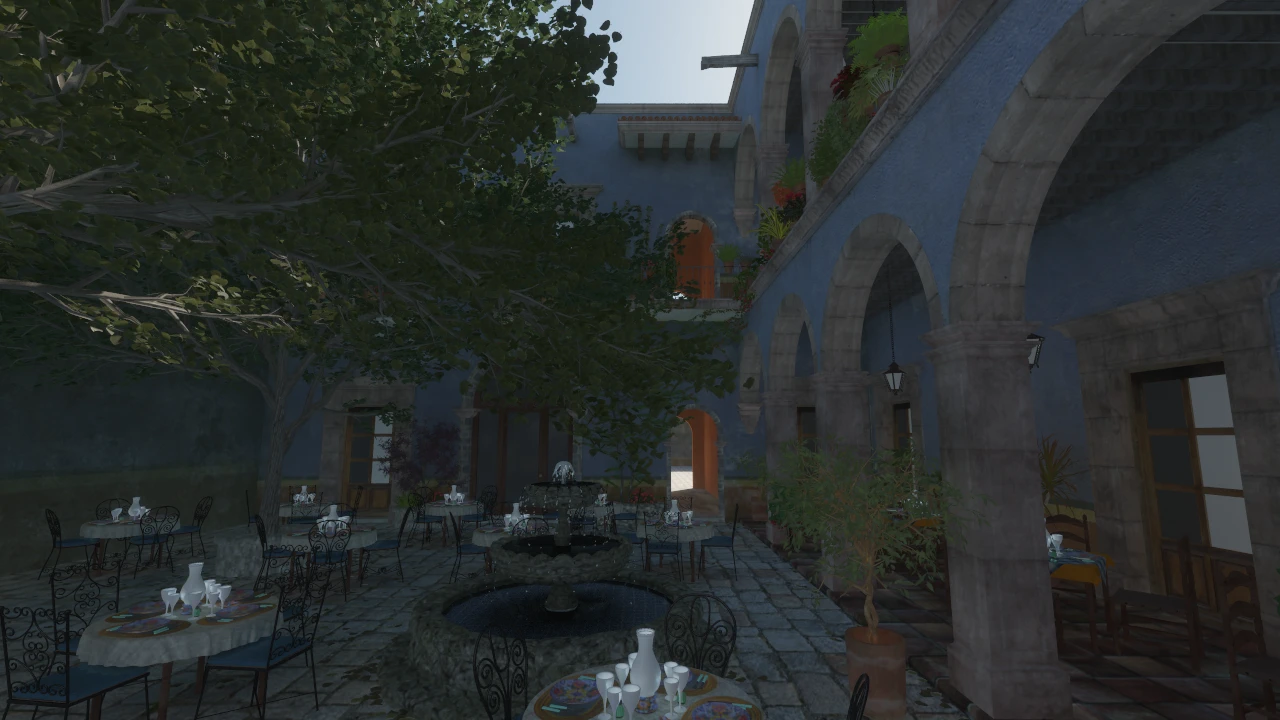
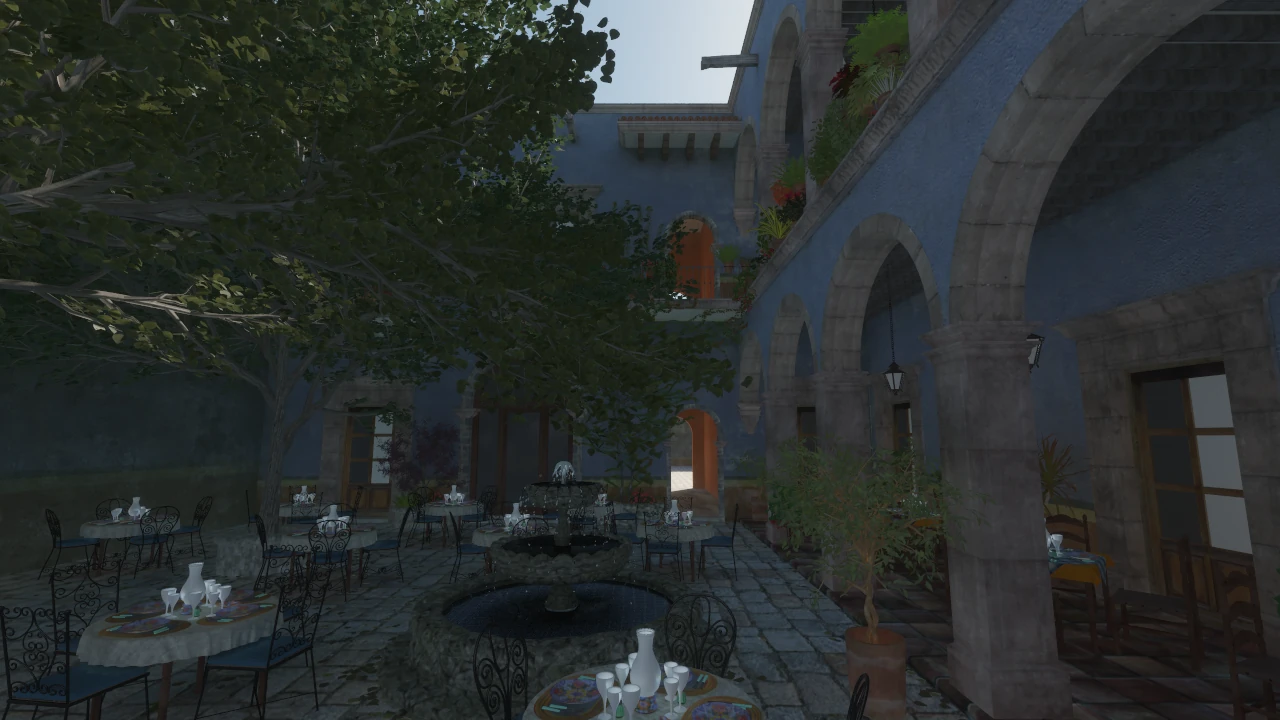
media: re-shoot the whole set on the foliage build, and a clip that can show it
Three commits landed since the media set was captured, and two of them are
look-affecting on the exact scenes it photographs. The foliage vocabulary in
matclass grew the plain-English and Minecraft rows, so Rungholt's canopy has
real leaf translucency now and the committed portrait still showed the flat
pre-foliage clumps; leaf sway displaces 5.1 M triangles per frame; and the
pavement guard restored Bistro's night cobble reflections. Everything except
ab/overlay.webp is re-shot from the current build — overlay is `--no-world`
procedural, which carries no foliage and no OBJ materials, so it is unmoved.

Nothing gates this. Every exact-zero counter, every A/B and check.png stayed
green the whole time the page was out of date; looks are gate-blind, and the
only instrument is looking. CLAUDE.md's cinematic touch-rule now says so.

NEW: a `foliage` preset, because the media set had no asset that could show
the feature at all. Leaf sway is a per-frame displacement of real geometry,
so a still shows one pose of it and reads as the rest pose. It reuses
`island_shots`' authored framing verbatim (the clip IS the islands still with
the clock running) and is LOCKED OFF, expressed as a one-key `Sequence`:
`pose_at` short-circuits at len 1 and returns key 0 with its pinned hour, so
no spline runs and the pose is bit-identical every frame while the sway,
cloud and firefly clocks advance underneath. A moving camera was rejected
[…]

diff --git a/src/cinematic.rs b/src/cinematic.rs
@@ -53,7 +53,7 @@ use crate::world::World;
 /// (`--no-clouds`, `--heightfield`, …) which is read once at load, so a pair is
 /// two runs of the same preset with different flags — not one run of a special
 /// preset. That keeps the levers composable instead of duplicating each one.
-pub const PRESETS: &[&str] = &["hero", "tour", "islands", "orbit", "hud", "list"];
+pub const PRESETS: &[&str] = &["hero", "tour", "islands", "orbit", "foliage", "hud", "list"];
 
 /// Default output frames for a sequence: 30 s at 30 fps.
 pub const DEFAULT_FRAMES: u32 = 900;
@@ -63,6 +63,23 @@ pub const DEFAULT_FPS: u32 = 30;
 /// reading as noise at 30 fps.
 pub const DEFAULT_STILL_SAMPLES: u32 = 256;
 pub const DEFAULT_SEQ_SAMPLES: u32 = 32;
+
+/// The `foliage` preset's defaults: 4 s at 30 fps, on San Miguel's ficus.
+///
+/// It is the one shot in the catalogue whose SUBJECT IS MOTION, so it is the
+/// one that cannot be a still — leaf sway is a per-frame displacement of real
+/// geometry (`src/foliage.rs`), and a still can only ever show one pose of it,
+/// indistinguishable from the rest pose. Everything else in the media set is
+/// framed to hold still and converge; this one is framed to be watched.
+///
+/// The camera is LOCKED OFF, deliberately: a moving camera muddies the reading
+/// (parallax on a static tree looks much like sway on a static camera, which is
+/// exactly the ambiguity the shot exists to remove). A one-key `Shot` is how
+/// that is expressed — `pose_at` returns key 0 verbatim at every `u`, with its
+/// pinned hour, so no spline runs and the pose is bit-identical every frame
+/// while the sway/cloud/firefly clocks advance underneath it.
+pub const FOLIAGE_FRAMES: u32 = 120;
+pub const FOLIAGE_ISLAND: &str = "san-miguel";
 
 /// One authored camera key. Positions, not angles — see invariant 2.
 ///
@@ -727,7 +744,11 @@ pub fn print_catalogue() {
     eprintln!("  tour     THE LAP: closed-loop flight over every island; the");
     eprintln!("           time-of-day attractors sweep dawn -> moonlit night");
     eprintln!("  orbit    a closed orbit of one island (--cinematic-island) or the scene");
-    eprintln!("  hud      a still with the HUD composited (--cinematic-hud)");
+    eprintln!("  foliage  a LOCKED-OFF clip at an island's framing — the wind in the");
+    eprintln!("           leaves is the subject, so this is the one shot that cannot");
+    eprintln!("           be a still (--cinematic-island, default san-miguel)");
+    eprintln!("  hud      a hero still with the HUD composited (--cinematic-hud,");
+    eprintln!("           --cinematic-island — it is `hero` wearing a hat)");
     eprintln!("  list     print this and exit");
     eprintln!("  <path>   anything else is read as a JSON shot list");
 }
@@ -766,11 +787,14 @@ pub fn resolve_shots(
         s
     };
 
-    let mut shots = match sel {
-        // `--cinematic hero --cinematic-island bistro` frames that island with
-        // the same rig the `islands` series uses, so a hero shot is a member of
-        // the series rather than a one-off pose that has to be re-found by hand.
-        "hero" => match (world, &c.island) {
+    // `hero` as a function rather than a match arm, because `hud` IS a hero
+    // shot with the HUD forced on and used to be a SECOND, simpler expression
+    // of that — one that read `cam0` directly and so silently ignored
+    // `--cinematic-island`. `--cinematic hud --cinematic-island bistro` framed
+    // the boot overview instead, produced a plausible-looking screenshot of an
+    // empty plane, and nothing anywhere said no. One definition, two callers.
+    let hero_shot = |sel: &str| -> Result<Shot, String> {
+        Ok(match (world, &c.island) {
             (Some(w), Some(name)) => {
                 let all = island_shots(w, still_res, still_s);
                 let idx = w
@@ -784,7 +808,7 @@ pub fn resolve_shots(
                         )
                     })?;
                 let mut s = all.into_iter().nth(idx).expect("index in range");
-                s.name = "hero".to_string();
+                s.name = sel.to_string();
                 s.gi = gi_still;
                 // A hero shot SHOOTS INTO THE LIGHT. The series framing looks
                 // radially outward, which isolates a subject cleanly but points
@@ -834,12 +858,19 @@ pub fn resolve_shots(
                     let fov = s.keys[0].fov_deg;
                     s.keys[0] = Keyframe { fov_deg: fov, tod, ..Keyframe::new(e, target) };
                 }
-                vec![s]
+                s
             }
-            _ => vec![hero("hero")],
-        },
+            _ => hero(sel),
+        })
+    };
+
+    let mut shots = match sel {
+        // `--cinematic hero --cinematic-island bistro` frames that island with
+        // the same rig the `islands` series uses, so a hero shot is a member of
+        // the series rather than a one-off pose that has to be re-found by hand.
+        "hero" => vec![hero_shot("hero")?],
         "hud" => {
-            let mut s = hero("hud");
+            let mut s = hero_shot("hud")?;
             // The hud preset implies the HUD even without --cinematic-hud;
             // otherwise the preset name would be a lie.
             s.hud = Some(c.hud.clone().flatten());
@@ -900,6 +931,53 @@ pub fn resolve_shots(
                 _ => (scene_center, scene_radius),
             };
             vec![orbit_shot(center, radius, frames, c.fps, seq_res, seq_s)]
+        }
+        // A LOCKED-OFF sequence at an island's authored framing — see
+        // FOLIAGE_FRAMES for why this preset exists and why it does not move.
+        // It reuses `island_shots`' pose rather than authoring a second one, so
+        // the clip is literally the `islands` still with time running.
+        "foliage" => {
+            let frames = c.frames_or(FOLIAGE_FRAMES);
+            match world {
+                Some(w) if !w.islands.is_empty() => {
+                    let name = c.island.clone().unwrap_or_else(|| FOLIAGE_ISLAND.to_string());
+                    let idx = w
+                        .islands
+                        .iter()
+                        .position(|i| i.name.eq_ignore_ascii_case(&name))
+                        .ok_or_else(|| {
+                            format!(
+                                "unknown island '{name}' (have: {})",
+                                w.islands
+                                    .iter()
+                                    .map(|i| i.name.as_str())
+                                    .collect::<Vec<_>>()
+                                    .join(", ")
+                            )
+                        })?;
+                    // Sequence res/samples, not the stills': this pays its cost
+                    // once per output frame, 120 times over.
+                    let mut s = island_shots(w, seq_res, seq_s)
+                        .into_iter()
+                        .nth(idx)
+                        .expect("index in range");
+                    s.name = "foliage".to_string();
+                    s.kind = ShotKind::Sequence { frames, fps: c.fps };
+                    s.keys.truncate(1);
+                    vec![s]
+                }
+                _ => {
+                    eprintln!(
+                        "cinematic: 'foliage' needs the world (git lfs pull?) — \
+                         falling back to a locked-off clip of this scene"
+                    );
+                    let mut s = hero("foliage");
+                    s.kind = ShotKind::Sequence { frames, fps: c.fps };
+                    s.res = seq_res;
+                    s.samples = seq_s;
+                    vec![s]
+                }
+            }
         }
         other => return Err(format!("unknown preset '{other}'")),
     };
@@ -1171,6 +1249,115 @@ pub fn self_test() -> Result<(), String> {
         s.exposure = -1.0;
         if s.exposure_scale() != 0.5 {
             return Err("exposure -1 stop must scale by exactly 0.5".into());
+        }
+    }
+    // The `foliage` preset, whose two claims are both silently breakable.
+    {
+        // (a) Its default island must be CURATED *and* AUTHORED. A non-curated
+        // name errors loudly, but an un-authored one does not: the shot would
+        // fall through to the bounding-sphere fit and produce a 120-frame clip
+        // of a roof, where the leaves are a few pixels wide and the whole point
+        // of the preset is lost. Same silent-failure class as the table above.
+        if !crate::world::CURATED.iter().any(|s| s.name == FOLIAGE_ISLAND) {
+            return Err(format!("FOLIAGE_ISLAND '{FOLIAGE_ISLAND}' is not a CURATED island"));
+        }
+        if !ISLAND_FRAMING.iter().any(|f| f.0 == FOLIAGE_ISLAND) {
+            return Err(format!(
+                "FOLIAGE_ISLAND '{FOLIAGE_ISLAND}' has no ISLAND_FRAMING entry — the clip \
+                 would take the bounding-sphere fit and film a roof"
+            ));
+        }
+        // (b) LOCKED OFF. The preset expresses a static camera as a one-key
+        // Sequence, which is only a static camera because `pose_at` short-
+        // circuits at len 1; a future spline that interpolated a single key
+        // against itself would still be static, but one that clamped into a
+        // 4-point window would not. Pin the pose AND the pinned hour across u.
+        let key = Keyframe { tod: Some(15.5), ..Keyframe::new(Vec3A::new(3.0, 2.0, 1.0), Vec3A::X) };
+        let (c0, t0) = pose_at(std::slice::from_ref(&key), true, 0.0);
+        for u in [0.25, 0.5, 0.75, 1.0] {
+            let (c, t) = pose_at(std::slice::from_ref(&key), true, u);
+            if c != c0 || t != t0 {
+                return Err(format!("foliage: one-key pose moved at u={u} — camera not locked off"));
+            }
+        }
+        if t0 != Some(15.5) {
+            return Err("foliage: one-key pose dropped its pinned hour".into());
+        }
+    }
+    // `hud` and `foliage` must both honour --cinematic-island, because both are
+    // `hero` wearing a different hat. `hud` did NOT: it read the boot camera
+    // directly, so `--cinematic hud --cinematic-island bistro` rendered the
+    // overview pose — a perfectly plausible screenshot of the wrong thing, with
+    // no error anywhere. Pin all three against one synthetic world.
+    {
+        let w = World {
+            islands: vec![crate::world::Island {
+                name: "probe-a".into(),
+                center: Vec3A::new(10.0, 0.0, 0.0),
+                radius: 4.0,
+                height: 3.0,
+                theme_hour: 9.0,
+            }],
+            field_half: 30.0,
+        };
+        let c = CineOpts {
+            out: String::new(),
+            res: Some((64, 64)),
+            samples: Some(1),
+            frames: Some(2),
+            fps: 30,
+            gi: None,
+            overlay: false,
+            hud: None,
+            encode: false,
+            dry_run: true,
+            island: Some("probe-a".into()),
+            hdr: false,
+            paper_white: 200.0,
+            exposure: None,
+        };
+        let cam = Camera::look_at(Vec3A::ZERO, Vec3A::X, 1.0);
+        let key_of = |sel: &str| -> Result<Keyframe, String> {
+            let s = resolve_shots(sel, &c, Some(&w), cam, Vec3A::ZERO, 1.0)?;
+            let s = s.into_iter().next().ok_or_else(|| format!("{sel}: no shot"))?;
+            s.keys.first().copied().ok_or_else(|| format!("{sel}: no keys"))
+        };
+        let same = |a: &Keyframe, b: &Keyframe| a.eye == b.eye && a.target == b.target;
+        // `hud` IS `hero` — including the sunward relocation an un-authored
+        // island gets, which is why this compares against hero and not islands.
+        let hero_key = key_of("hero")?;
+        let hud_key = key_of("hud")?;
+        if !same(&hud_key, &hero_key) || hud_key.tod != hero_key.tod {
+            return Err(format!(
+                "preset 'hud' ignored --cinematic-island: eye {:?} vs hero's {:?}",
+                hud_key.eye, hero_key.eye
+            ));
+        }
+        // `foliage` is the ISLANDS framing with the clock running — deliberately
+        // NOT hero's, which re-places the eye to shoot into the sun and would
+        // discard the composition the clip is framed on.
+        let isl_key = *resolve_shots("islands", &c, Some(&w), cam, Vec3A::ZERO, 1.0)?[0]
+            .keys
+            .first()
+            .ok_or("islands: no keys")?;
+        let fol_key = key_of("foliage")?;
+        if !same(&fol_key, &isl_key) || fol_key.tod != isl_key.tod {
+            return Err(format!(
+                "preset 'foliage' is not the islands framing: eye {:?} vs {:?}",
+                fol_key.eye, isl_key.eye
+            ));
+        }
+        // Anti-vacuity: both comparisons must be able to fail. If the island
+        // pose coincided with the no-island fallback, a preset that ignored
+        // --cinematic-island entirely would still pass.
+        let mut c0 = c.clone();
+        c0.island = None;
+        let fb = *resolve_shots("hero", &c0, Some(&w), cam, Vec3A::ZERO, 1.0)?[0]
+            .keys
+            .first()
+            .ok_or("hero: no keys")?;
+        if same(&fb, &hero_key) || same(&fb, &isl_key) {
+            return Err("island framing coincides with the fallback pose — gate is vacuous".into());
         }
     }
     // The spline must agree with main.rs's copy at an arbitrary interior point.

diff --git a/CLAUDE.md b/CLAUDE.md
@@ -1693,7 +1693,7 @@ cargo run --release -- --cinematic tour --cinematic-res 3840x2160 --cinematic-fp
                         --cinematic-frames 1200 --cinematic-hdr
                                       # MEDIA MODE (see the Cinematic capture section): headless,
                                       # deterministic stills and camera-spline sequences for the
-                                      # README/release. Presets hero|islands|tour|orbit|hud|list,
+                                      # README/release. Presets hero|islands|tour|orbit|foliage|hud|list,
                                       # or a JSON shot-list path; bare --cinematic = hero + the
                                       # catalogue. Writes a numbered PNG sequence + manifest and
                                       # PRINTS the exact ffmpeg commands (--cinematic-encode runs
@@ -2268,7 +2268,7 @@ picks the narrower width precisely to avoid spilling. If it is ever wanted, `[Wa
 
 ## Cinematic capture (`--cinematic`): the offline beauty path
 
-A first-class headless MEDIA mode, peer to `--check` and `--spin`: stills and camera-spline video sequences, rendered deterministically for the README/release. `src/cinematic.rs` is the PURE half (data model, spline, presets, HUD composite, `self_test` — no GPU, no platform API, covered by `--check` on every platform); the drivers live in main.rs beside `run_spin`/`run_spin_gpu`, whose frame contract they mirror. Presets: `hero` (one still; bare `--cinematic` = this, plus the catalogue), `islands` (one per world island), `tour` (THE LAP — closed-loop flight over the ring, the attractors sweeping dawn → moonlit night), `orbit`, `hud`, `list`; anything else is a JSON shot-list path. Sub-flags all carry the `--cinematic-` prefix precisely so ONE `starts_with` clause covers the family in `settings::headless_args` (the `--spin`/`--spin-frames` two-arm wart, avoided).
+A first-class headless MEDIA mode, peer to `--check` and `--spin`: stills and camera-spline video sequences, rendered deterministically for the README/release. `src/cinematic.rs` is the PURE half (data model, spline, presets, HUD composite, `self_test` — no GPU, no platform API, covered by `--check` on every platform); the drivers live in main.rs beside `run_spin`/`run_spin_gpu`, whose frame contract they mirror. Presets: `hero` (one still; bare `--cinematic` = this, plus the catalogue), `islands` (one per world island), `tour` (THE LAP — closed-loop flight over the ring, the attractors sweeping dawn → moonlit night), `orbit`, `foliage`, `hud`, `list`; anything else is a JSON shot-list path. **`foliage` is the one preset whose SUBJECT IS MOTION** (`FOLIAGE_FRAMES`/`FOLIAGE_ISLAND`, default 120 frames on san-miguel): leaf sway is a per-frame displacement of real geometry, so a still shows one pose of it and reads as the rest pose — the media set had no asset that could show the feature at all. It reuses `island_shots`' authored pose VERBATIM (the clip is literally the `islands` still with the clock running) and is LOCKED OFF, expressed as a ONE-KEY `Sequence` — `pose_at` short-circuits at `len == 1` and returns key 0 with its pinned hour, so no spline runs and the pose is bit-identical every frame while the sway/cloud/firefly clocks advance underneath. A moving camera was rejected, not skipped: parallax over a static tree looks like sway under a static camera, which is the exact ambiguity the shot exists to remove. `self_test` pins BOTH silent-failure modes — `FOLIAGE_ISLAND` must be CURATED **and** have an `ISLAND_FRAMING` entry (an un-authored name errors nowhere and yields 120 frames of a roof), and the one-key pose must not move across `u` (a future spline that clamped into a 4-point window instead of short-circuiting would un-lock the camera silently). Sub-flags all carry the `--cinematic-` prefix precisely so ONE `starts_with` clause covers the family in `settings::headless_args` (the `--spin`/`--spin-frames` two-arm wart, avoided).
 
 **WHY IT EXISTS, given `--spin` already walks a camera path**: `--spin` is a benchmark that writes no pixels and whose path amplitudes are benchmark-sized (≤ 0.12 diag). More importantly the INTERACTIVE renderer cannot produce these frames. Every cinematic output frame is a STATIC pose accumulating N sub-frames, which buys two things a live session cannot have: proper multi-sample AA with no temporal upscaler, and the hemisphere bounce integrator (`Quality::fb`), which is still-frames-only by construction. **Cinematic is therefore the only path in the tree that can render a moving camera WITH GI.** No upscaler exists headlessly (`GpuContext::new` needs an HWND — `run_spin_gpu`'s own comment), so `--cinematic-samples` is the single quality knob; for a still that is BETTER than the window shows (converged ground truth, no reconstruction artifacts).
 
@@ -2288,7 +2288,7 @@ A first-class headless MEDIA mode, peer to `--check` and `--spin`: stills and ca
 
 `cinematic::self_test` (in `--check`) gates: spline determinism, `pose_at(0)` == key 0, closed-loop seam C1 **as a SCALING property** (a one-sided finite difference carries O(eps) truncation from the path's own curvature, so a fixed tolerance measures the probe, not the spline — uniform Catmull-Rom is analytically C1 at its knots and a naive limit rejected a provably-continuous seam), open-path endpoint clamping, the hour circle's short way round, HDR/PQ anchors, the ffmpeg command construction (HEVC + `hvc1` — QuickTime and Safari refuse the file without that tag — PQ tags, 10-bit, `setparams`), even-dimension rounding, and **the clearance gate**: every sampled pose on a generated lap must stay > 1.05× island radius from every island, tested over hostile radius spreads. That gate caught a real bug — a closed spline straight through the island EYES chords across the ring, and at n=2 degenerates to a line through both islands — which is why `world_lap` emits a TRANSIT key on the ring arc between each pair. Its clock continuity is tested by SCALING too, because an absolute per-frame bound would measure how hostile the synthetic config is rather than whether the function is continuous.
 
-`--cinematic` is exclusive with `--spin`/`--check*` (they are benchmarks and gates on their own fixed scenes) but is deliberately ABSENT from the `--world` exclusivity list and from `world_wanted`'s conjunction — that absence IS how it gets the world by default while `--check*`/`--spin` still never load it, so every structural must-fire gate stays tuned to the procedural scene's topology and **no gate moves** (`check.png` verified byte-identical across the feature). It is also the first path that composites the HUD into a saved image (`Hud::composite_sdr` + `Hud::settle`, which pumps 5.2 s of wall clock so the FPS graph's 40 × 125 ms buckets are populated rather than empty) — amend the "P screenshots and `--check` PNGs contain NO HUD" known-accept accordingly. Touch `cinematic.rs`, the `run_cinematic*` drivers, `Clouds::cine`/`Fireflies::cine`, `Island::height`, or `Hud::composite_sdr`/`settle` → run `--check` (+ verify `check.png` is byte-identical), `--check-gpu`, `--check-dxr`, then `--cinematic hero`/`tour --cinematic-frames 60` and LOOK at the output.
+`--cinematic` is exclusive with `--spin`/`--check*` (they are benchmarks and gates on their own fixed scenes) but is deliberately ABSENT from the `--world` exclusivity list and from `world_wanted`'s conjunction — that absence IS how it gets the world by default while `--check*`/`--spin` still never load it, so every structural must-fire gate stays tuned to the procedural scene's topology and **no gate moves** (`check.png` verified byte-identical across the feature). It is also the first path that composites the HUD into a saved image (`Hud::composite_sdr` + `Hud::settle`, which pumps 5.2 s of wall clock so the FPS graph's 40 × 125 ms buckets are populated rather than empty) — amend the "P screenshots and `--check` PNGs contain NO HUD" known-accept accordingly. Touch `cinematic.rs`, the `run_cinematic*` drivers, `Clouds::cine`/`Fireflies::cine`/the `sway_time` clock, `Island::height`, or `Hud::composite_sdr`/`settle` → run `--check` (+ verify `check.png` is byte-identical), `--check-gpu`, `--check-dxr`, then `--cinematic hero`/`tour --cinematic-frames 60`/`foliage --cinematic-frames 30` and LOOK at the output. **A look-affecting change anywhere ages the committed media set** (`docs/media/`), and nothing gates that either: the 2026-07-30 re-shoot found the seven island stills stale from a matclass vocabulary change alone — Rungholt's Minecraft canopy had gained real leaf translucency and the committed portrait still showed the flat pre-foliage clumps.
 
 ## FSR (AMD ffx-api): Ray Regeneration + FSR4, and FSR 3.1 upscale-only
 

diff --git a/README.md b/README.md
@@ -403,6 +403,7 @@ each one's A/B is how its cost was measured in the first place.
 |---|---|---|
 | Volumetric clouds — a drifting, curl-warped slab that shadows the sun | `--no-clouds` | |
 | Time of day, moon, and stars — the sun sets, the moon becomes the light, the star field lights the scene | `--tod <h>` to pin | **,** / **.** |
+| Wind-swayed foliage — 5.1 M leaf triangles moving as real geometry | `--no-foliage-sway` | |
 | Fireflies after dusk — real point lights with hard shadows | `--no-fireflies` | |
 | Hemisphere-bounce GI / AO — the quadtree idea aimed at the light integral | (opt-in) | **H** |
 | Heightfield relief — real displaced geometry at the intersector | (opt-in `--heightfield`) | **V** |
@@ -412,6 +413,18 @@ each one's A/B is how its cost was measured in the first place.
 | Glare — the reason the sun looks like a sun | `--no-bloom` | |
 | BC7 texture compression, encoded on the GPU at load | `--no-bc7` | |
 | Per-island ambience + procedural wind | `--no-audio` | |
+
+![Wind through San Miguel's ficus](docs/media/foliage.webp)
+
+*Wind in the leaves — and the leaves are **geometry**, not a shader trick.
+Foliage-classified alpha-masked triangles are bucketed by locality at load
+(5.1 M of them across the world, into 132 cells), each cell becomes an instance
+in a top-level acceleration structure rebuilt every frame, and the ray BVH
+grows one **gateway** node per cell so a ray shifts into that cell's rest space
+once on entry instead of paying for the displacement per triangle. Because the
+motion lives in the structure rather than in a vertex program, every ray sees
+it: swaying leaves cast swaying shadows, occlude bounce rays, and dapple the
+courtyard. All three tracers animate. `--no-foliage-sway` pins the rest pose.*
 
 <table>
 <tr>
@@ -450,6 +463,10 @@ cargo run --release -- --cinematic hero --cinematic-island san-miguel \
                         --cinematic-gi --cinematic-res 2560x1072 \
                         --cinematic-samples 320 --cinematic-hdr
 
+# the wind in the leaves: a locked-off clip, because a still cannot show it
+cargo run --release -- --cinematic foliage --cinematic-gi \
+                        --cinematic-res 1280x536 --cinematic-samples 32
+
 # the lap, as released: 4K, 60 fps, HDR10
 cargo run --release -- --cinematic tour --cinematic-frames 1200 --cinematic-fps 60 \
                         --cinematic-res 3840x2160 --cinematic-hdr
@@ -482,6 +499,13 @@ interactive renderer can't, because that integrator is still-frames-only. And
 with no upscaler available headlessly, all antialiasing comes from
 accumulation, which for a still is better than what the window shows: converged
 ground truth with no reconstruction artefacts.
+
+The `foliage` preset is the one shot in the catalogue that *cannot* be a still,
+and it is the only one with a locked-off camera. Leaf sway is a per-frame
+displacement of real geometry, so a single frame of it is indistinguishable
+from the rest pose; and a moving camera would make it ambiguous, because
+parallax over a static tree looks much like sway under a static camera. So it
+reuses the `islands` framing verbatim and simply lets the clock run.
 
 ---
 
